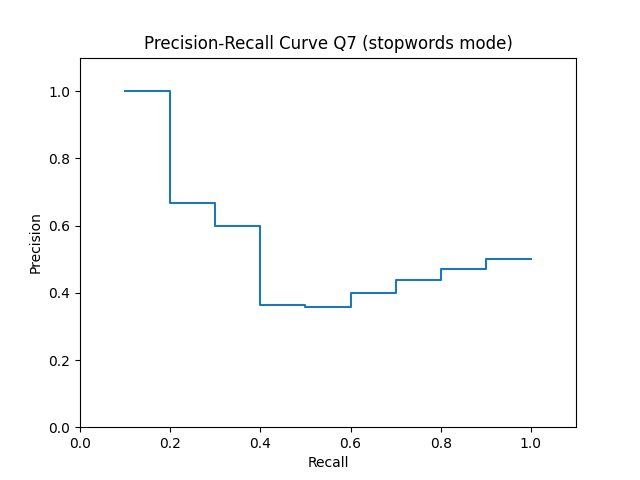
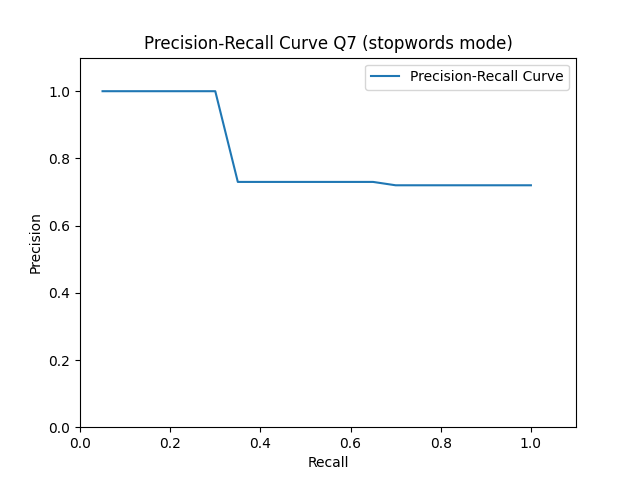
fix

diff --git a/evaluation/evaluation.py b/evaluation/evaluation.py
@@ -1,5 +1,4 @@
 import json
-import numpy as np
 import matplotlib.pyplot as plt
 from sklearn.metrics import PrecisionRecallDisplay
 import sys
@@ -38,9 +37,9 @@ def precision_values(results: list) -> float:
 
 def recall_values(results: list) -> float:
     return [
-        len([
+        (len([
             doc for doc in results[:idx] if doc == 1
-        ]) / sum(results)
+        ]) / sum(results)) if sum(results) else 0
         for idx, _ in enumerate(results, start=1)
     ]
 
@@ -83,7 +82,7 @@ def acc_results(precision, recall):
     maximos = []
 
     for _, r in zip(precision, recall):
-        max_precision = max([p_i for p_i, r_i in zip(precision, recall) if r_i >= r])
+        max_precision = max([p_i for (p_i, r_i) in zip(precision, recall) if r_i >= r])
         maximos.append(max_precision)
 
     return maximos

diff --git a/evaluation/query.py b/evaluation/query.py
@@ -24,7 +24,6 @@ CONFIG = {
     'final': [5, 8]
 }
 
-
 def text_to_embedding(text):
     model = SentenceTransformer('all-MiniLM-L6-v2')
     embedding = model.encode(text, convert_to_tensor=False).tolist()
